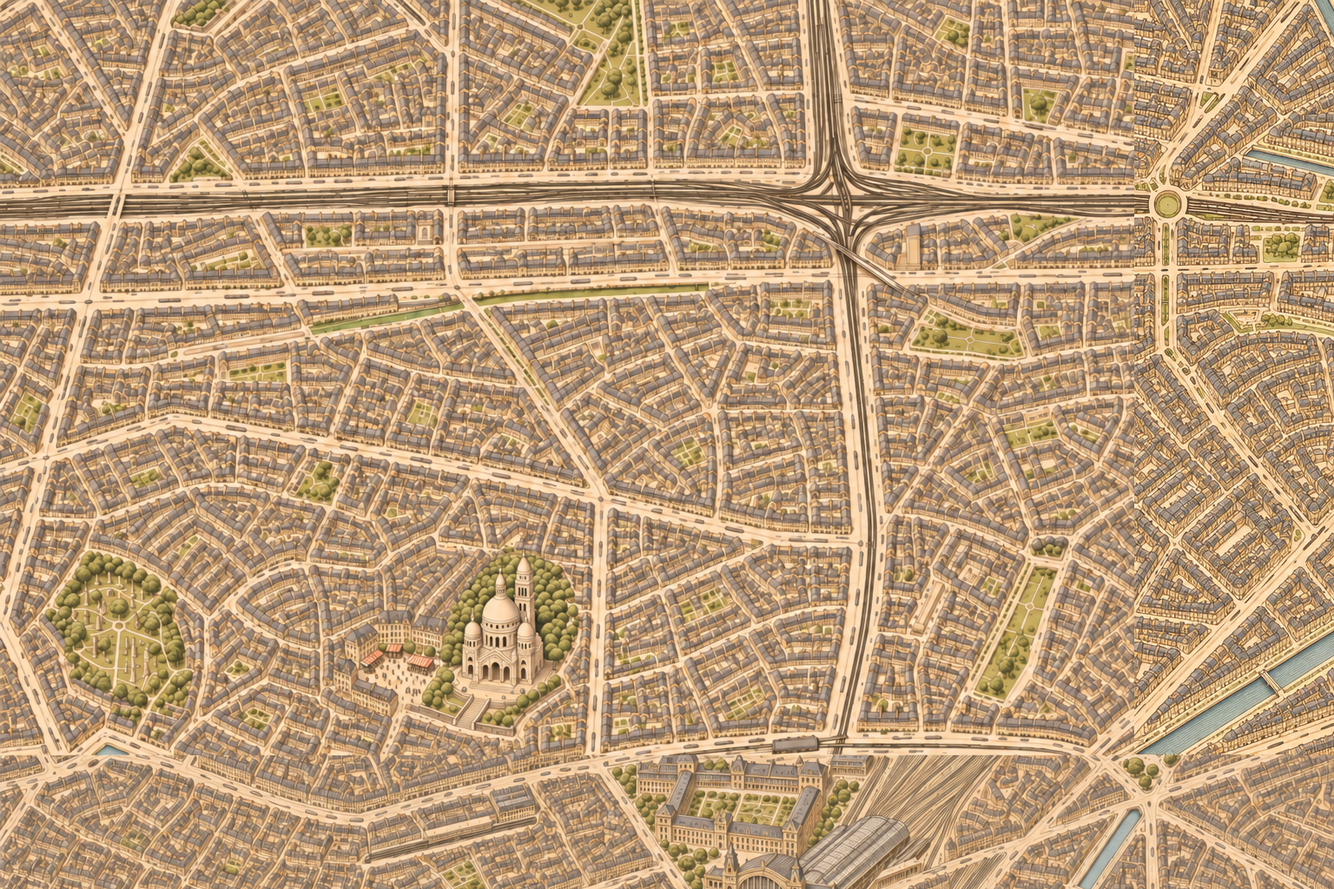
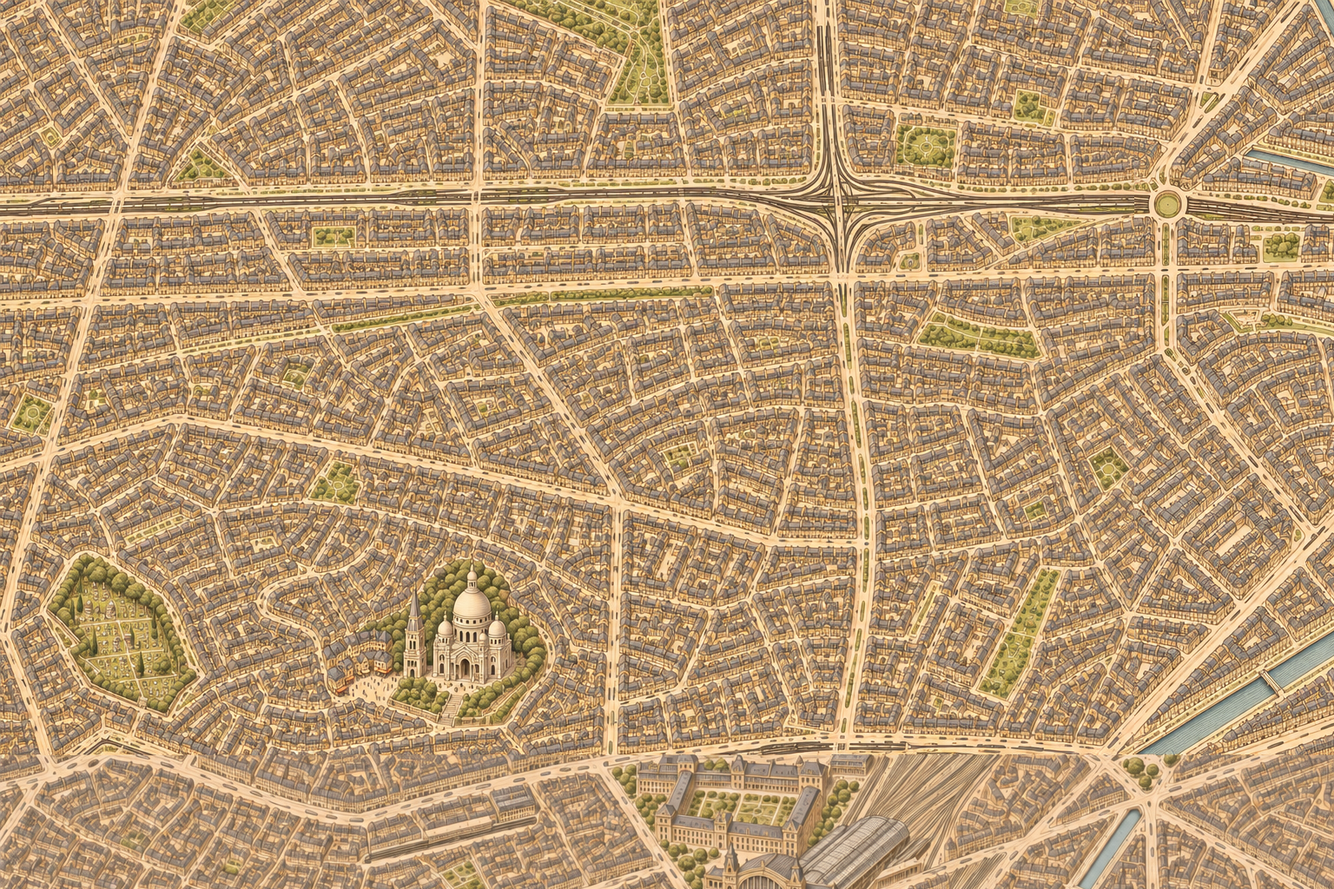
Paris02 v2 rebuilt dense city transition to approved03 edge

diff --git a/posti/pariisi-palat-1-15-20261102/pala02/RAJA-HUOMIO.md b/posti/pariisi-palat-1-15-20261102/pala02/RAJA-HUOMIO.md
@@ -2,4 +2,4 @@
 
 Pala02:ssa aseman katto näkyy lukitussa alareunassa, mutta etujulkisivun pohjapiste rajautuu kuvan ulkopuolelle. Havaintopiste24 [907,1057] on hyväksytyn pala06:n havainto [907,187] siirrettynä samalla +870px-siirrolla. Se ei ole pala02:sta uutena mitattu eikä tavoitekoordinaatista keksitty. Kokonainen asema ja alkuperäinen havainto ovat pala06:ssa.
 
-Tämän palan kolme uutta havaintoa: Sacré-Cœur, Montmartren hautausmaa ja Place du Tertre. Kolme generointikutsua.
+Tämän palan kolme uutta havaintoa: Sacré-Cœur, Montmartren hautausmaa ja Place du Tertre. Neljä generointikutsua.
